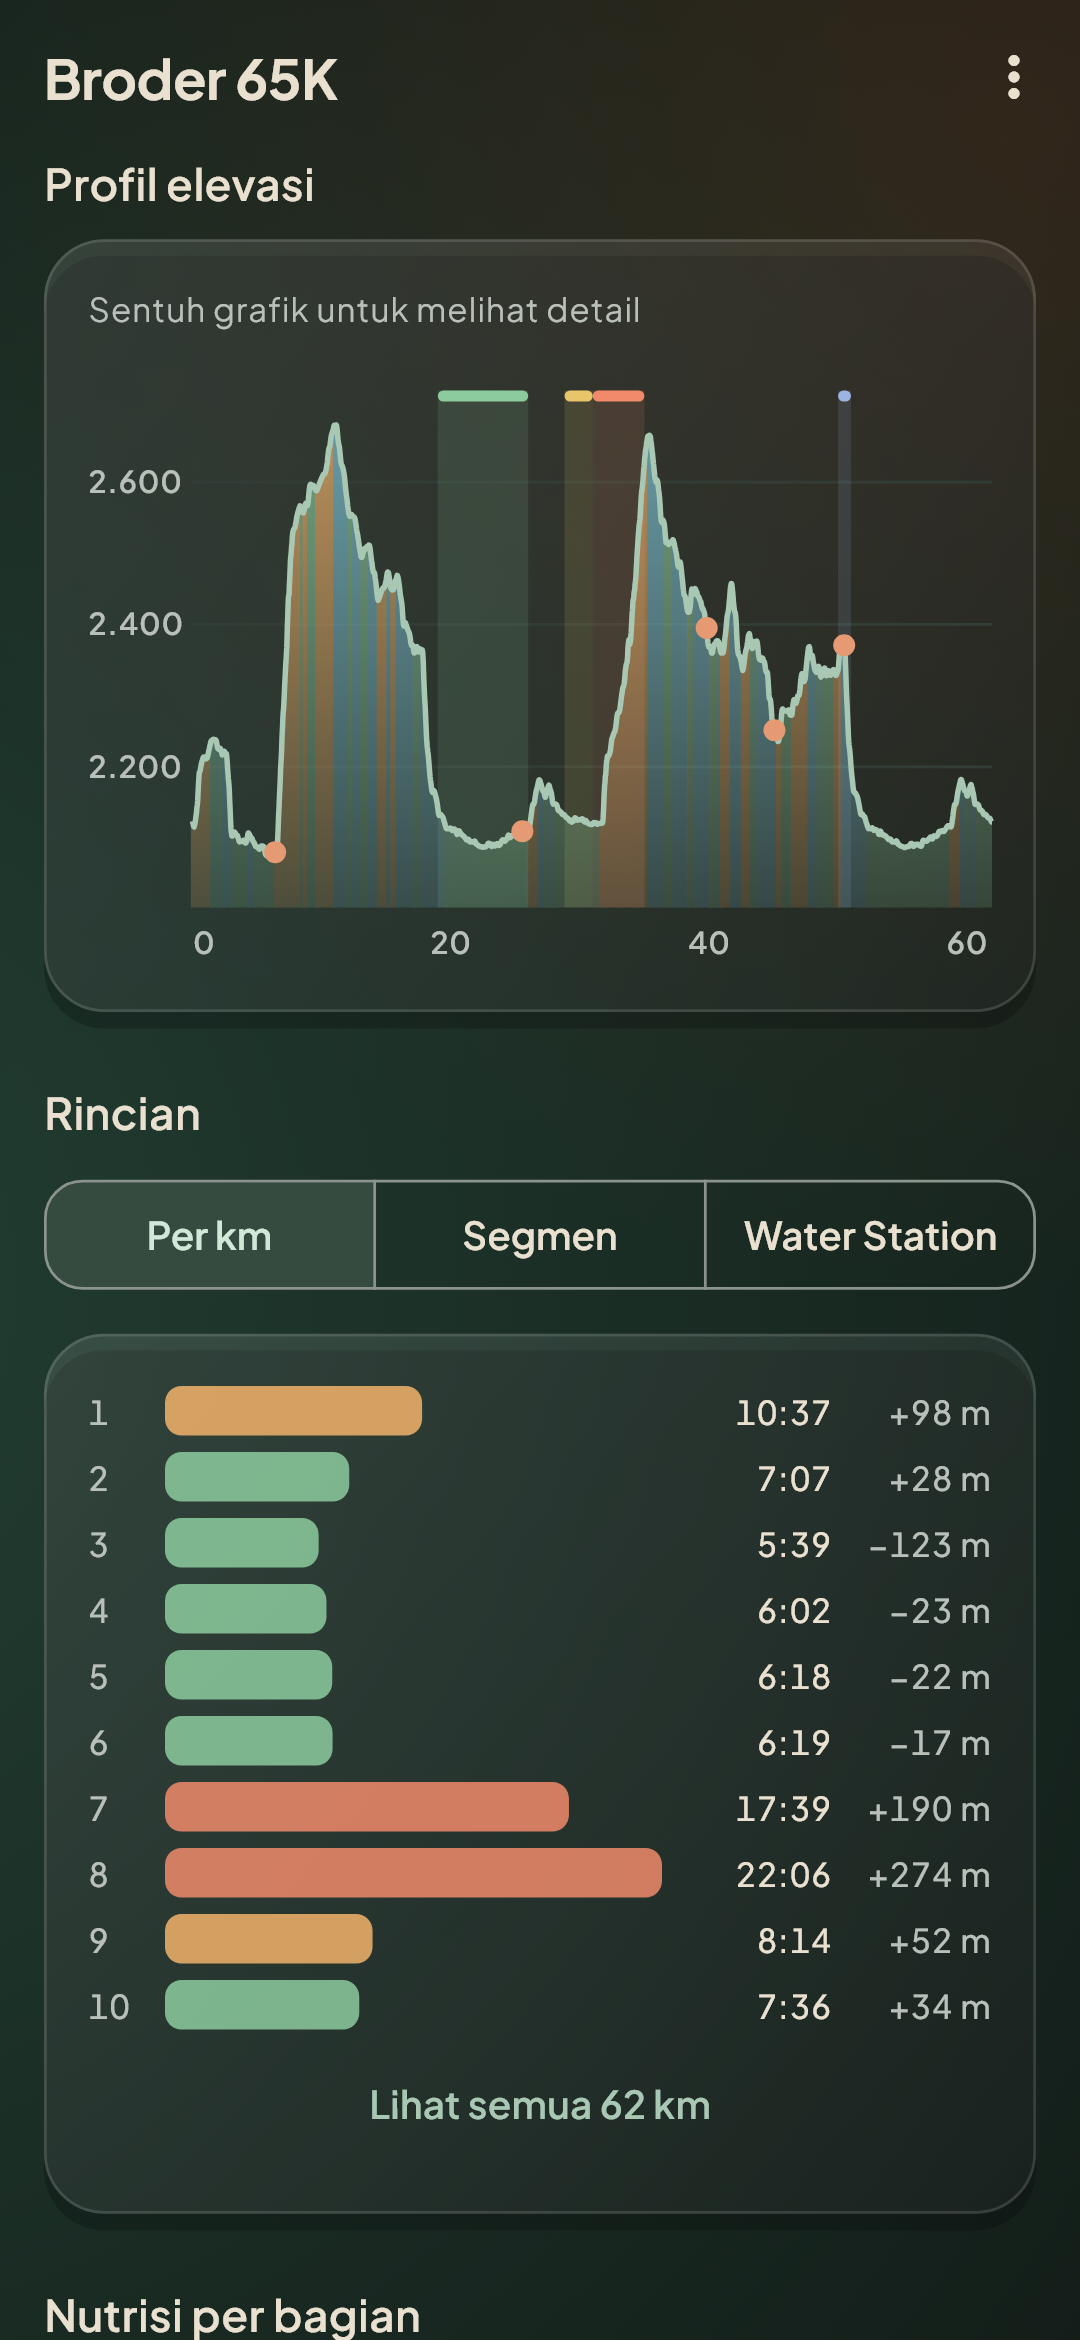
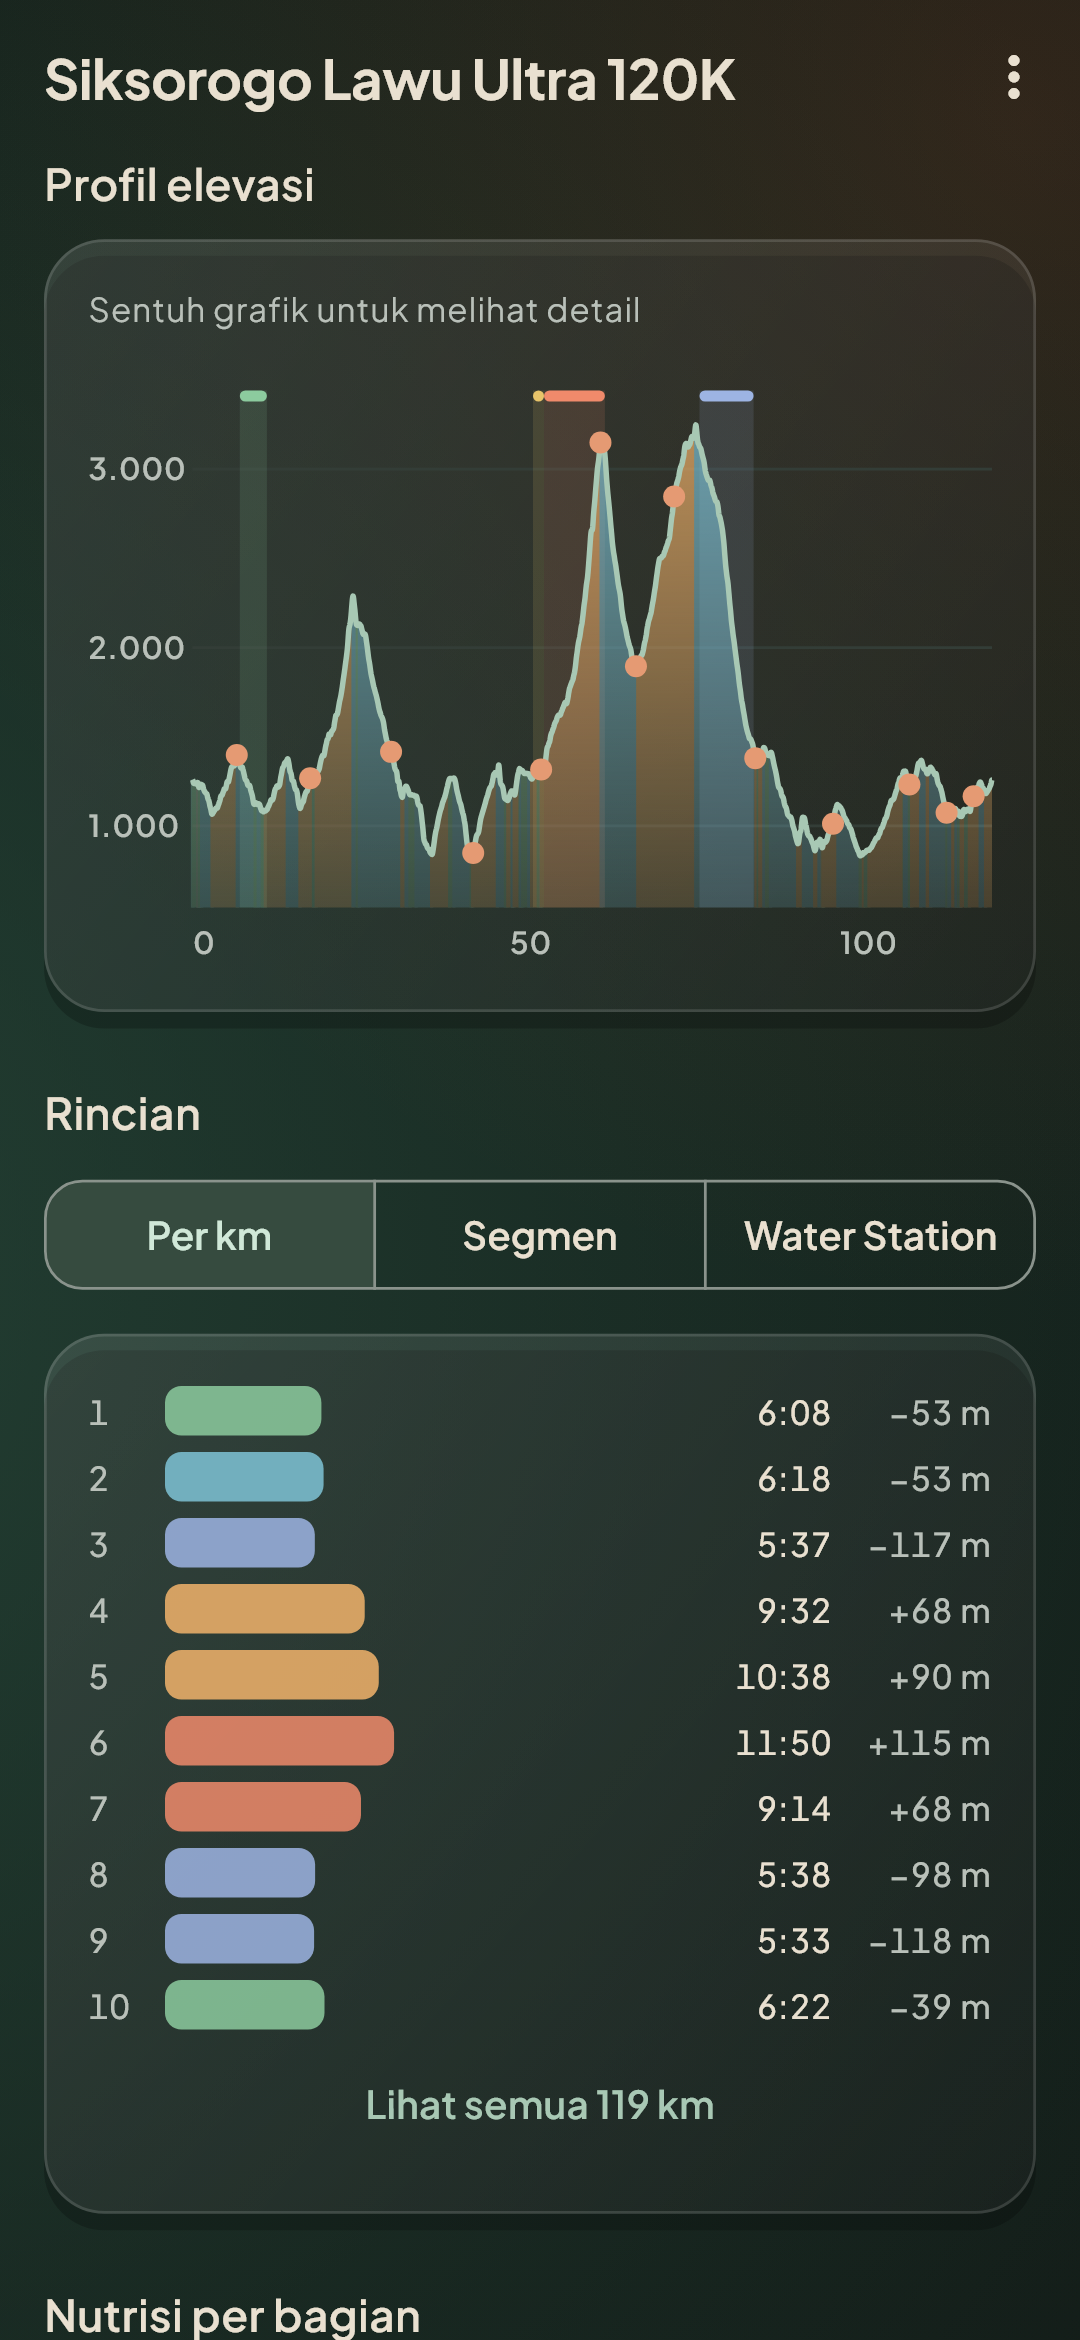
README: 15 tangkapan layar Siksorogo Lawu Ultra 120K, Strava, dan dukung

diff --git a/README.md b/README.md
@@ -42,12 +42,12 @@ Impor file GPX rute lomba, dan Terrail menghitung target pace untuk setiap tanja
   </tr>
   <tr>
     <td align="center"><img src="docs/screenshots/13-huawei-health.png" width="240"><br><sub>Panduan Huawei Health</sub></td>
-    <td></td>
-    <td></td>
+    <td align="center"><img src="docs/screenshots/14-strava.png" width="240"><br><sub>Ambil dari Strava</sub></td>
+    <td align="center"><img src="docs/screenshots/15-tentang-dukung.png" width="240"><br><sub>Tentang dan dukung lewat Saweria</sub></td>
   </tr>
 </table>
 
-<sub>Rute di tangkapan layar: GPX publik Broder 65K 2026. Rekaman lari, HR, dan cadence di layar Hasil adalah contoh sintetis.</sub>
+<sub>Rute di tangkapan layar: GPX publik Siksorogo Lawu Ultra 120K 2026. Rekaman lari, HR, dan cadence di layar Hasil adalah contoh sintetis.</sub>
 
 ## Fitur
 
